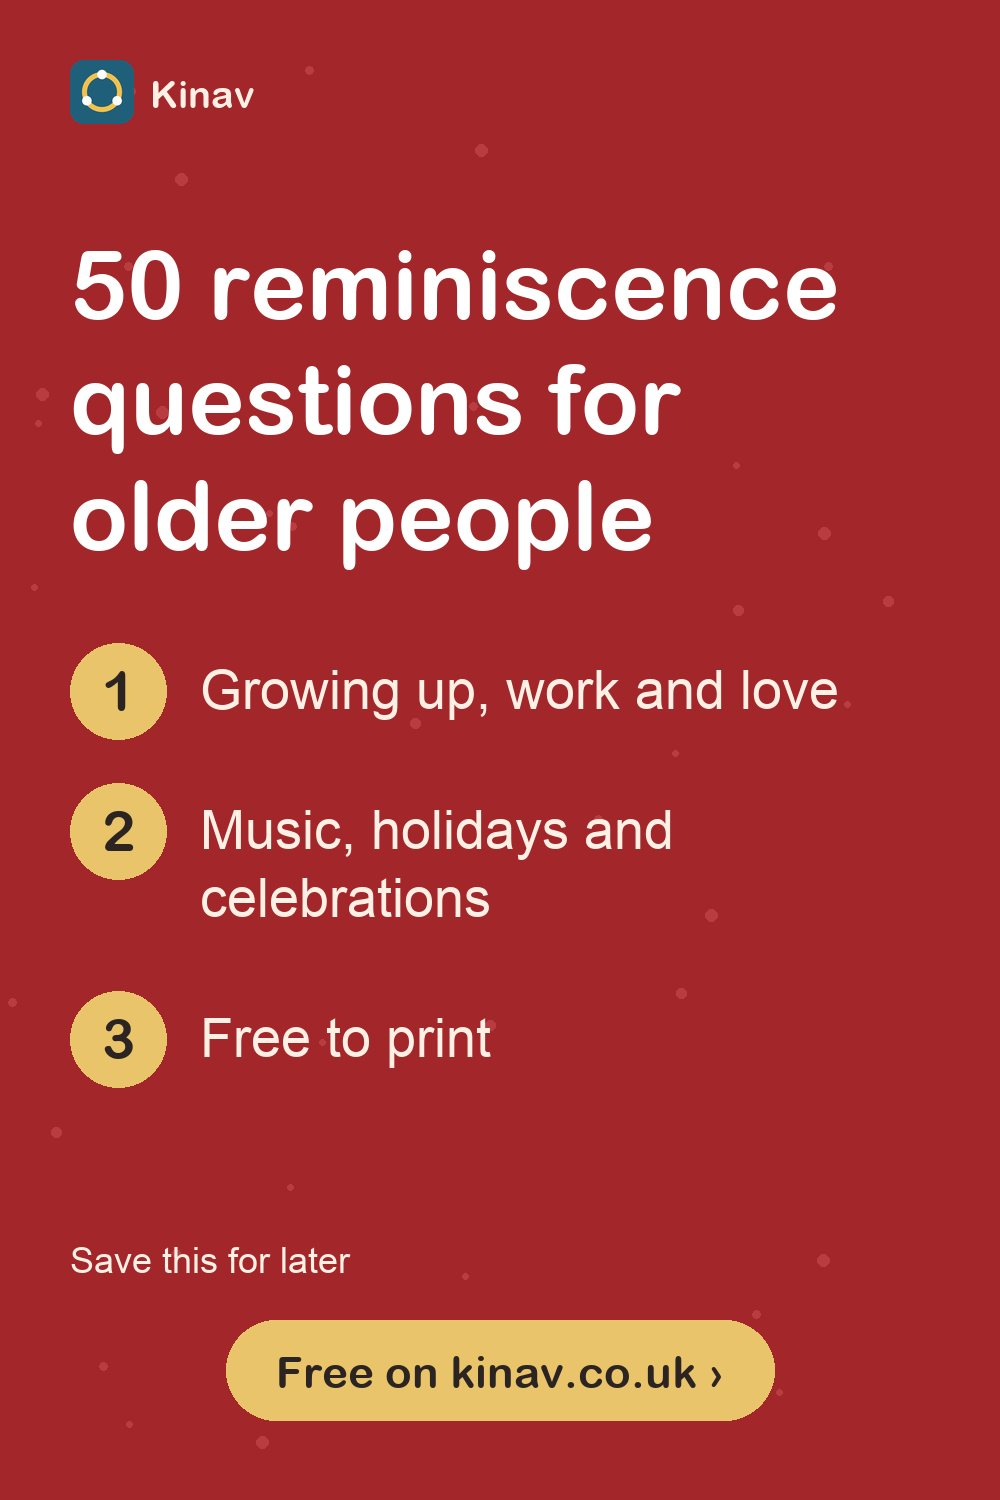
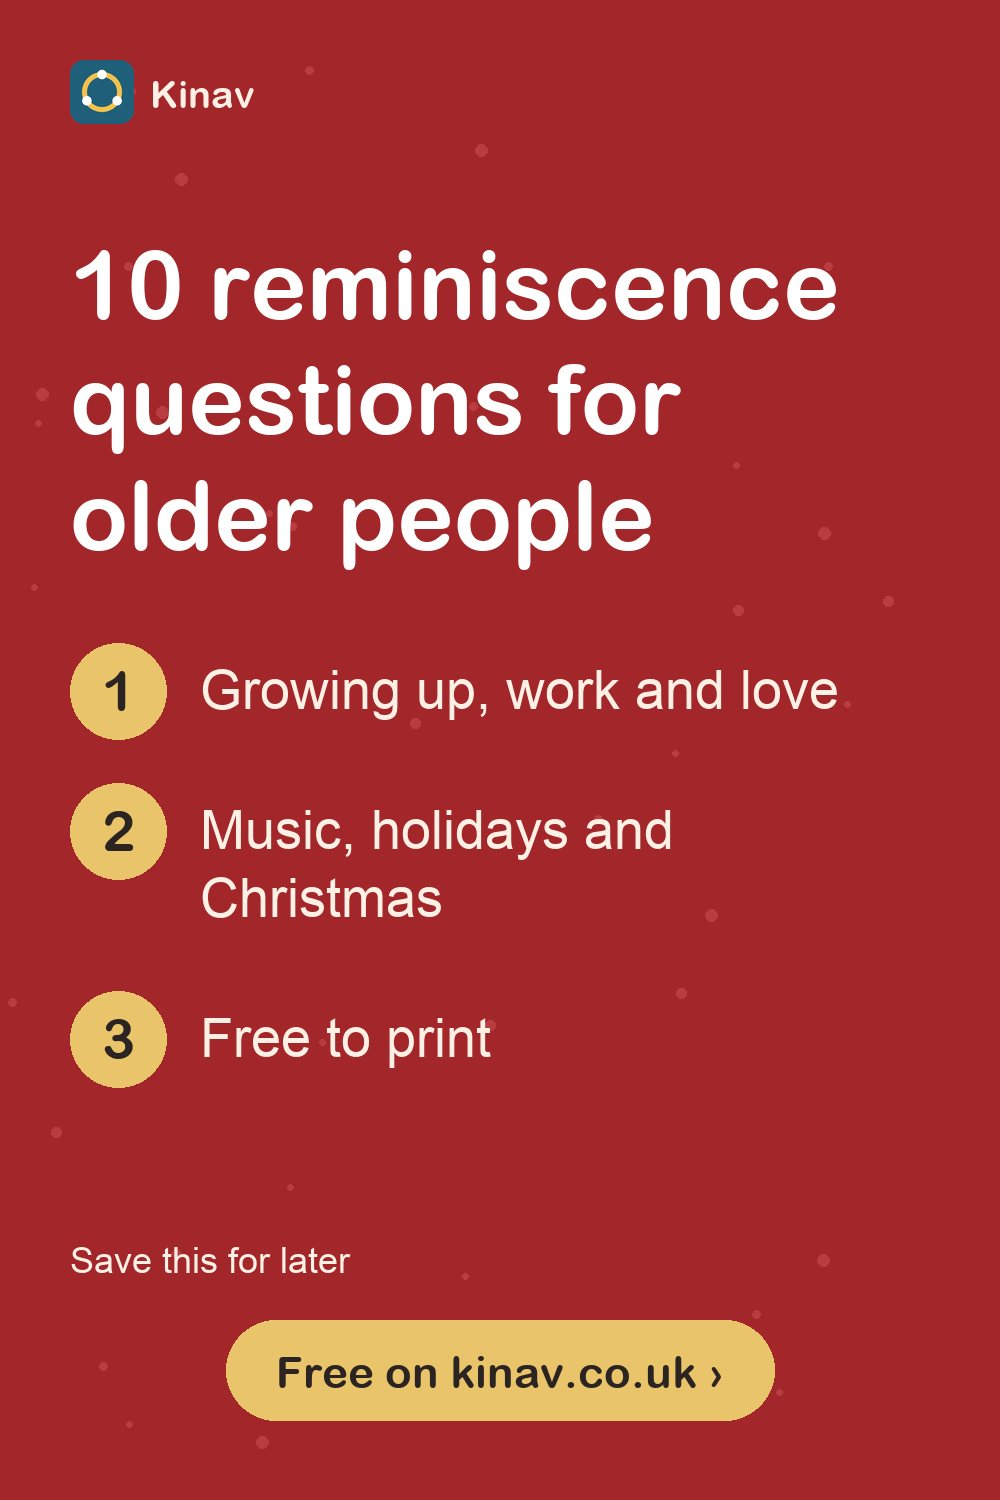
Reminiscence questions page: 10 free questions instead of 50

Changed region(s): [[0.186, 0.5827, 0.496, 0.6133], [0.062, 0.1533, 0.124, 0.2147]]

diff --git a/app/printables/reminiscence-questions/index.html b/app/printables/reminiscence-questions/index.html
@@ -3,11 +3,11 @@
 <head>
 <meta charset="utf-8">
 <meta name="viewport" content="width=device-width, initial-scale=1, viewport-fit=cover">
-<title>50 reminiscence questions for older people: free printable conversation starters | Kinav</title>
-<meta name="description" content="50 free reminiscence questions for older people and people in care homes: conversation starters about childhood, school, work, love, music, holidays and celebrations.">
+<title>10 reminiscence questions for older people: free printable conversation starters | Kinav</title>
+<meta name="description" content="10 free reminiscence questions for older people and people in care homes: easy conversation starters about childhood, work, love, music, holidays and Christmas.">
 <link rel="canonical" href="https://kinav.co.uk/printables/reminiscence-questions/">
-<meta property="og:title" content="50 reminiscence questions for older people: free printable conversation starters | Kinav">
-<meta property="og:description" content="50 free reminiscence questions for older people and people in care homes: conversation starters about childhood, school, work, love, music, holidays and celebrations.">
+<meta property="og:title" content="10 reminiscence questions for older people: free printable conversation starters | Kinav">
+<meta property="og:description" content="10 free reminiscence questions for older people and people in care homes: easy conversation starters about childhood, work, love, music, holidays and Christmas.">
 <meta property="og:url" content="https://kinav.co.uk/printables/reminiscence-questions/">
 <meta property="og:image" content="https://kinav.co.uk/og-image.png">
 <meta name="twitter:card" content="summary_large_image">
@@ -23,9 +23,9 @@
   <a class="btn btn-ghost" href="/#care">Search by postcode</a>
 </header>
 <style>.rq li{font-size:19px;margin:6px 0}@media print{.rq{break-inside:avoid}.rq li{font-size:18px}}</style>
-<div class="stack-sm"><h1>50 reminiscence questions for older people</h1><p class="lede">Gentle questions to start conversations about a long life: growing up, work, love, music, holidays and more. For visits, care home groups or a cup of tea at home. Free to print.</p><p class="noprint"><button class="btn" type="button" onclick="print()">Print the questions</button></p></div>
+<div class="stack-sm"><h1>10 reminiscence questions for older people</h1><p class="lede">Gentle questions to start conversations about a long life: growing up, work, love, music, holidays and more. For visits, care home groups or a cup of tea at home. Free to print.</p><p class="noprint"><button class="btn" type="button" onclick="print()">Print the questions</button></p></div>
 <section class="panel noprint"><h2>How to use them</h2><ul><li>Pick one question, not a list. Let the answer lead where it wants to go.</li><li>Share a memory of your own, so it feels like a chat, not a quiz.</li><li>Photos, music and old objects help memories come.</li><li>If a question doesn't feel right, move on. "Pass" is always fine.</li><li>Write down or record the best stories for the family.</li></ul></section>
-<section class="panel rq"><h2>Growing up</h2><ol><li>Where did you grow up, and what was the house like?</li><li>What games did you play outside?</li><li>Who were your best friends?</li><li>What jobs did you do at home?</li><li>What was a real treat when you were small?</li></ol></section><section class="panel rq"><h2>School</h2><ol><li>What was your school like?</li><li>Who was your favourite teacher?</li><li>What did you do at playtime?</li><li>What were you good at?</li><li>How did you get to school?</li></ol></section><section class="panel rq"><h2>Work</h2><ol><li>What was your first job?</li><li>What did you spend your first wage on?</li><li>Who was the best person you worked with?</li><li>What are you proud of from work?</li><li>What job would you have liked to do?</li></ol></section><section class="panel rq"><h2>Love and family</h2><ol><li>How did you meet someone special?</li><li>What was your wedding day like?</li><li>What do you remember about your children being small?</li><li>What family sayings do you remember?</li><li>Who do you take after?</li></ol></section><section class="panel rq"><h2>Home and everyday life</h2><ol><li>What was wash day like?</li><li>What did the kitchen look like?</li><li>When did you first have a TV or a phone?</li><li>What did you have for Sunday dinner?</li><li>Which shops did you go to?</li></ol></section><section class="panel rq"><h2>Music, films and dancing</h2><ol><li>What was the first record you bought?</li><li>Where did you go dancing?</li><li>Which film stars did you like?</li><li>What did you listen to on the radio?</li><li>Which song takes you straight back?</li></ol></section><section class="panel rq"><h2>Holidays and days out</h2><ol><li>Where did you go on holiday as a child?</li><li>What was your best day out?</li><li>Did you go to the seaside?</li><li>Where's the furthest you've travelled?</li><li>Where would you go tomorrow if you could?</li></ol></section><section class="panel rq"><h2>Celebrations</h2><ol><li>What was Christmas like when you were young?</li><li>How did you celebrate birthdays?</li><li>What's the best present you've had?</li><li>Which street parties do you remember?</li><li>What traditions did your family have?</li></ol></section><section class="panel rq"><h2>The world changing</h2><ol><li>What's the biggest change you've seen?</li><li>What do you miss from the old days?</li><li>What's better now?</li><li>Which news events do you remember?</li><li>How much did things cost when you were young?</li></ol></section><section class="panel rq"><h2>You</h2><ol><li>What makes you laugh?</li><li>What's the best advice you've been given?</li><li>What are you proudest of?</li><li>What would you tell your younger self?</li><li>What's your favourite season, and why?</li></ol></section>
+<section class="panel rq"><h2>10 questions to start with</h2><ol><li>Where did you grow up, and what was the house like?</li><li>What games did you play outside as a child?</li><li>Who was your favourite teacher?</li><li>What was your first job, and what did you spend your first wage on?</li><li>How did you meet someone special?</li><li>What was the first record you bought?</li><li>Where did you go on holiday as a child?</li><li>What was Christmas like when you were young?</li><li>What's the biggest change you've seen in your lifetime?</li><li>What's the best advice you've ever been given?</li></ol></section>
 <section class="panel noprint"><p class="small">More free ideas: <a href="/printables/what-to-talk-about-in-a-care-home-visit/">what to talk about on a care home visit</a> and <a href="/activities/">activity ideas for every month</a>.</p></section>
 <section class="panel stack-sm"><h2>Make it easier</h2><a class="pp" href="https://kinavuk.etsy.com/uk/listing/4611935151/reminiscence-cards-for-elderly-128" rel="noopener" style="display:flex;gap:14px;align-items:center;text-decoration:none;color:inherit"><img src="/shop-img/reminiscence-cards.jpg" alt="" loading="lazy" width="110" height="110" style="width:110px;height:110px;border-radius:12px;flex:none"><span><b>Let&#x27;s Talk reminiscence cards</b><br><small>120 cards to spark memories and conversation, at home or in a care home.</small><br><em style="font-style:normal;font-weight:700">See it in the Kinav shop on Etsy ›</em></span></a><p class="small muted">Everything on kinav.co.uk stays free. The shop helps keep Kinav running.</p></section>
 <footer class="tiny muted">

diff --git a/app/printables/what-to-talk-about-in-a-care-home-visit/index.html b/app/printables/what-to-talk-about-in-a-care-home-visit/index.html
@@ -26,7 +26,7 @@
 <div class="stack-sm"><h1>What to talk about when visiting someone in a care home</h1><p class="lede">Easy ideas and 15 conversation starters for visiting a parent or grandparent in a care home, so visits feel less awkward and more like time together.</p></div>
 <section class="panel"><h2>8 ideas that help</h2><ol class="steps"><li><b>Bring something to look at</b><br><span class="muted">Photos, a magazine, post from home, a newspaper or something from the garden. Things to look at make it easy to start talking.</span></li><li><b>Talk about now, too</b><br><span class="muted">What the family are up to, what's on TV, the weather, the football. Everyday news matters.</span></li><li><b>Ask open questions</b><br><span class="muted">"Tell me about…" works better than questions with a yes or no answer.</span></li><li><b>Do something together</b><br><span class="muted">A crossword, a card game, a jigsaw, nails or hair, a walk round the garden. Talking is easier side by side.</span></li><li><b>Play music</b><br><span class="muted">Their favourite songs on your phone. Sing along if they want to.</span></li><li><b>Silence is fine</b><br><span class="muted">Sitting together quietly, holding hands or watching the birds still counts as a good visit.</span></li><li><b>Keep it short and regular</b><br><span class="muted">Shorter, more frequent visits often go better than long ones.</span></li><li><b>Say when you'll be back</b><br><span class="muted">Write it on their calendar, so they can look forward to it.</span></li></ol></section>
 <section class="panel vq"><h2>15 conversation starters</h2><ol><li>What have you been up to this week?</li><li>Who's been in to see you?</li><li>What was lunch like today?</li><li>What's the best thing about living here?</li><li>Is there anything you'd like me to bring next time?</li><li>What did you think of the weather this week?</li><li>Which of the staff makes you laugh?</li><li>What's on the telly that you're enjoying?</li><li>Shall we look at some photos?</li><li>What were you doing at my age?</li><li>Can you tell me again how you met Grandad (or Grandma)?</li><li>What was your favourite holiday?</li><li>What should I cook this weekend? How did you make it?</li><li>Which song shall we put on?</li><li>What would you like to do next time I come?</li></ol><p class="noprint"><button class="btn btn-ghost" type="button" onclick="print()">Print this page</button></p></section>
-<section class="panel noprint"><p class="small">More free help: <a href="/printables/reminiscence-questions/">50 reminiscence questions</a>, <a href="/activities/">activity ideas for every month</a> and <a href="/guides/how-to-choose-a-care-home/">how to choose a care home</a>.</p></section>
+<section class="panel noprint"><p class="small">More free help: <a href="/printables/reminiscence-questions/">10 reminiscence questions</a>, <a href="/activities/">activity ideas for every month</a> and <a href="/guides/how-to-choose-a-care-home/">how to choose a care home</a>.</p></section>
 <section class="panel stack-sm"><h2>Make it easier</h2><a class="pp" href="https://kinavuk.etsy.com/uk/listing/4611935151/reminiscence-cards-for-elderly-128" rel="noopener" style="display:flex;gap:14px;align-items:center;text-decoration:none;color:inherit"><img src="/shop-img/reminiscence-cards.jpg" alt="" loading="lazy" width="110" height="110" style="width:110px;height:110px;border-radius:12px;flex:none"><span><b>Let&#x27;s Talk reminiscence cards</b><br><small>120 cards to spark memories and conversation, at home or in a care home.</small><br><em style="font-style:normal;font-weight:700">See it in the Kinav shop on Etsy ›</em></span></a><p class="small muted">Everything on kinav.co.uk stays free. The shop helps keep Kinav running.</p></section>
 <footer class="tiny muted">
   <p>Kinav gives general information about care in England. It doesn't give health, medical, legal or financial advice. For health questions, speak to the GP, a pharmacist or NHS 111. In an emergency, call 999. Last updated 11 November 2026.</p>

diff --git a/update/build_free.py b/update/build_free.py
@@ -87,24 +87,16 @@ def clock_page(updated):
 
 REMI = "/printables/reminiscence-questions/"
 VISIT = "/printables/what-to-talk-about-in-a-care-home-visit/"
-REMI_Q = [
- ("Growing up", ["Where did you grow up, and what was the house like?", "What games did you play outside?", "Who were your best friends?", "What jobs did you do at home?", "What was a real treat when you were small?"]),
- ("School", ["What was your school like?", "Who was your favourite teacher?", "What did you do at playtime?", "What were you good at?", "How did you get to school?"]),
- ("Work", ["What was your first job?", "What did you spend your first wage on?", "Who was the best person you worked with?", "What are you proud of from work?", "What job would you have liked to do?"]),
- ("Love and family", ["How did you meet someone special?", "What was your wedding day like?", "What do you remember about your children being small?", "What family sayings do you remember?", "Who do you take after?"]),
- ("Home and everyday life", ["What was wash day like?", "What did the kitchen look like?", "When did you first have a TV or a phone?", "What did you have for Sunday dinner?", "Which shops did you go to?"]),
- ("Music, films and dancing", ["What was the first record you bought?", "Where did you go dancing?", "Which film stars did you like?", "What did you listen to on the radio?", "Which song takes you straight back?"]),
- ("Holidays and days out", ["Where did you go on holiday as a child?", "What was your best day out?", "Did you go to the seaside?", "Where's the furthest you've travelled?", "Where would you go tomorrow if you could?"]),
- ("Celebrations", ["What was Christmas like when you were young?", "How did you celebrate birthdays?", "What's the best present you've had?", "Which street parties do you remember?", "What traditions did your family have?"]),
- ("The world changing", ["What's the biggest change you've seen?", "What do you miss from the old days?", "What's better now?", "Which news events do you remember?", "How much did things cost when you were young?"]),
- ("You", ["What makes you laugh?", "What's the best advice you've been given?", "What are you proudest of?", "What would you tell your younger self?", "What's your favourite season, and why?"]),
-]
+REMI_Q = ["Where did you grow up, and what was the house like?", "What games did you play outside as a child?", "Who was your favourite teacher?",
+          "What was your first job, and what did you spend your first wage on?", "How did you meet someone special?", "What was the first record you bought?",
+          "Where did you go on holiday as a child?", "What was Christmas like when you were young?", "What's the biggest change you've seen in your lifetime?",
+          "What's the best advice you've ever been given?"]
 
 
 def remi_page(updated):
-    groups = "".join('<section class="panel rq"><h2>%s</h2><ol>%s</ol></section>' % (h, "".join("<li>%s</li>" % q for q in qs)) for h, qs in REMI_Q)
+    groups = '<section class="panel rq"><h2>10 questions to start with</h2><ol>%s</ol></section>' % "".join("<li>%s</li>" % q for q in REMI_Q)
     body = ['<style>.rq li{font-size:19px;margin:6px 0}@media print{.rq{break-inside:avoid}.rq li{font-size:18px}}</style>',
-            '<div class="stack-sm"><h1>50 reminiscence questions for older people</h1>'
+            '<div class="stack-sm"><h1>10 reminiscence questions for older people</h1>'
             '<p class="lede">Gentle questions to start conversations about a long life: growing up, work, love, music, holidays and more. '
             'For visits, care home groups or a cup of tea at home. Free to print.</p>'
             '<p class="noprint"><button class="btn" type="button" onclick="print()">Print the questions</button></p></div>',
@@ -113,8 +105,8 @@ def remi_page(updated):
             '<li>If a question doesn\'t feel right, move on. "Pass" is always fine.</li><li>Write down or record the best stories for the family.</li></ul></section>',
             groups,
             '<section class="panel noprint"><p class="small">More free ideas: <a href="%s">what to talk about on a care home visit</a> and <a href="/activities/">activity ideas for every month</a>.</p></section>' % VISIT]
-    return REMI, build_pages.page(REMI, "50 reminiscence questions for older people: free printable conversation starters | Kinav",
-                                  "50 free reminiscence questions for older people and people in care homes: conversation starters about childhood, school, work, love, music, holidays and celebrations.",
+    return REMI, build_pages.page(REMI, "10 reminiscence questions for older people: free printable conversation starters | Kinav",
+                                  "10 free reminiscence questions for older people and people in care homes: easy conversation starters about childhood, work, love, music, holidays and Christmas.",
                                   "\n".join(body), updated, kind="guide")
 
 
@@ -140,7 +132,7 @@ def visit_page(updated):
             '<section class="panel"><h2>8 ideas that help</h2><ol class="steps">%s</ol></section>' % tips,
             '<section class="panel vq"><h2>15 conversation starters</h2><ol>%s</ol>'
             '<p class="noprint"><button class="btn btn-ghost" type="button" onclick="print()">Print this page</button></p></section>' % qs,
-            '<section class="panel noprint"><p class="small">More free help: <a href="%s">50 reminiscence questions</a>, <a href="/activities/">activity ideas for every month</a> '
+            '<section class="panel noprint"><p class="small">More free help: <a href="%s">10 reminiscence questions</a>, <a href="/activities/">activity ideas for every month</a> '
             'and <a href="/guides/how-to-choose-a-care-home/">how to choose a care home</a>.</p></section>' % REMI]
     return VISIT, build_pages.page(VISIT, "What to talk about when visiting someone in a care home: 15 conversation starters | Kinav",
                                    "What to talk about when you visit a parent or grandparent in a care home: 8 ideas that help, and 15 free conversation starters to print.",
